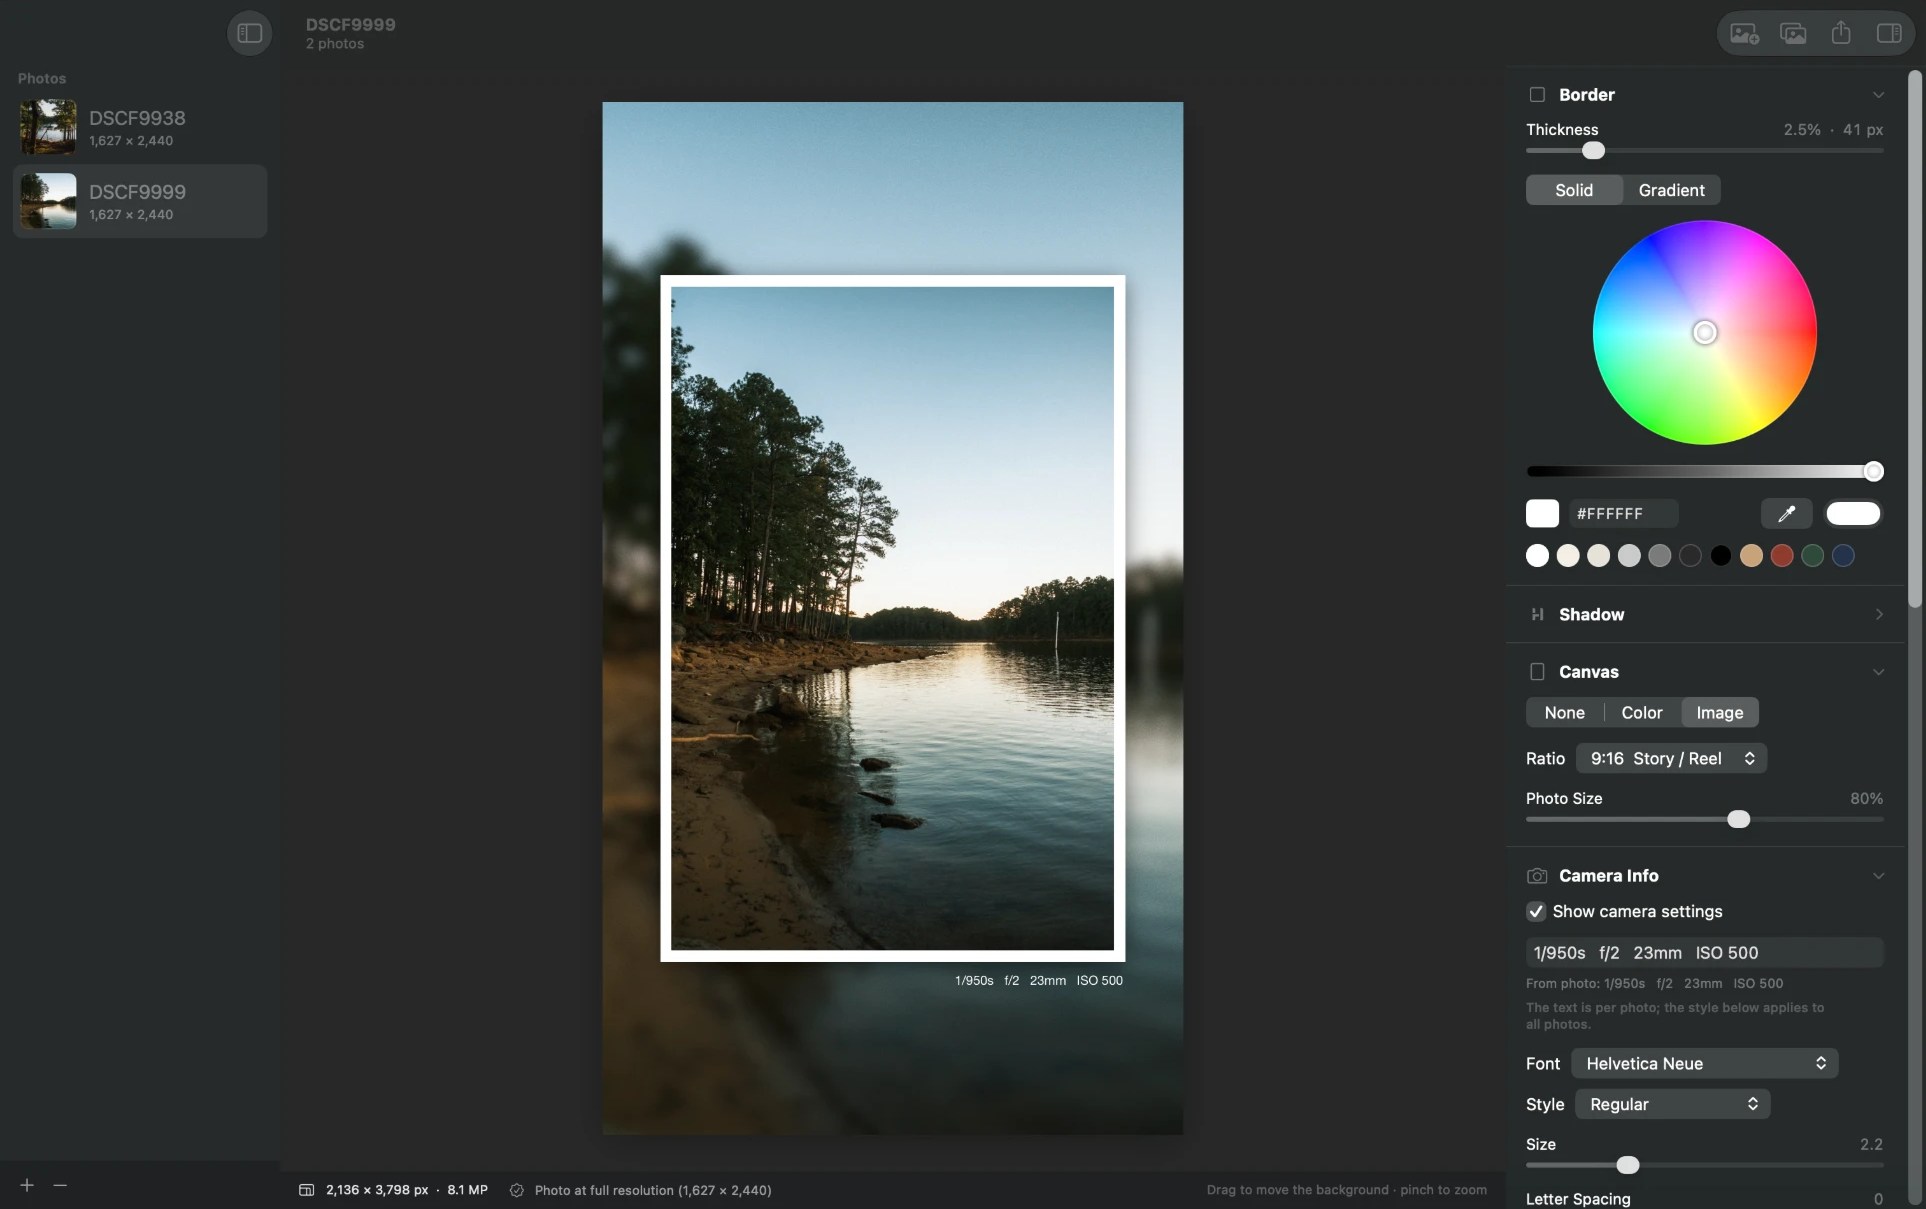
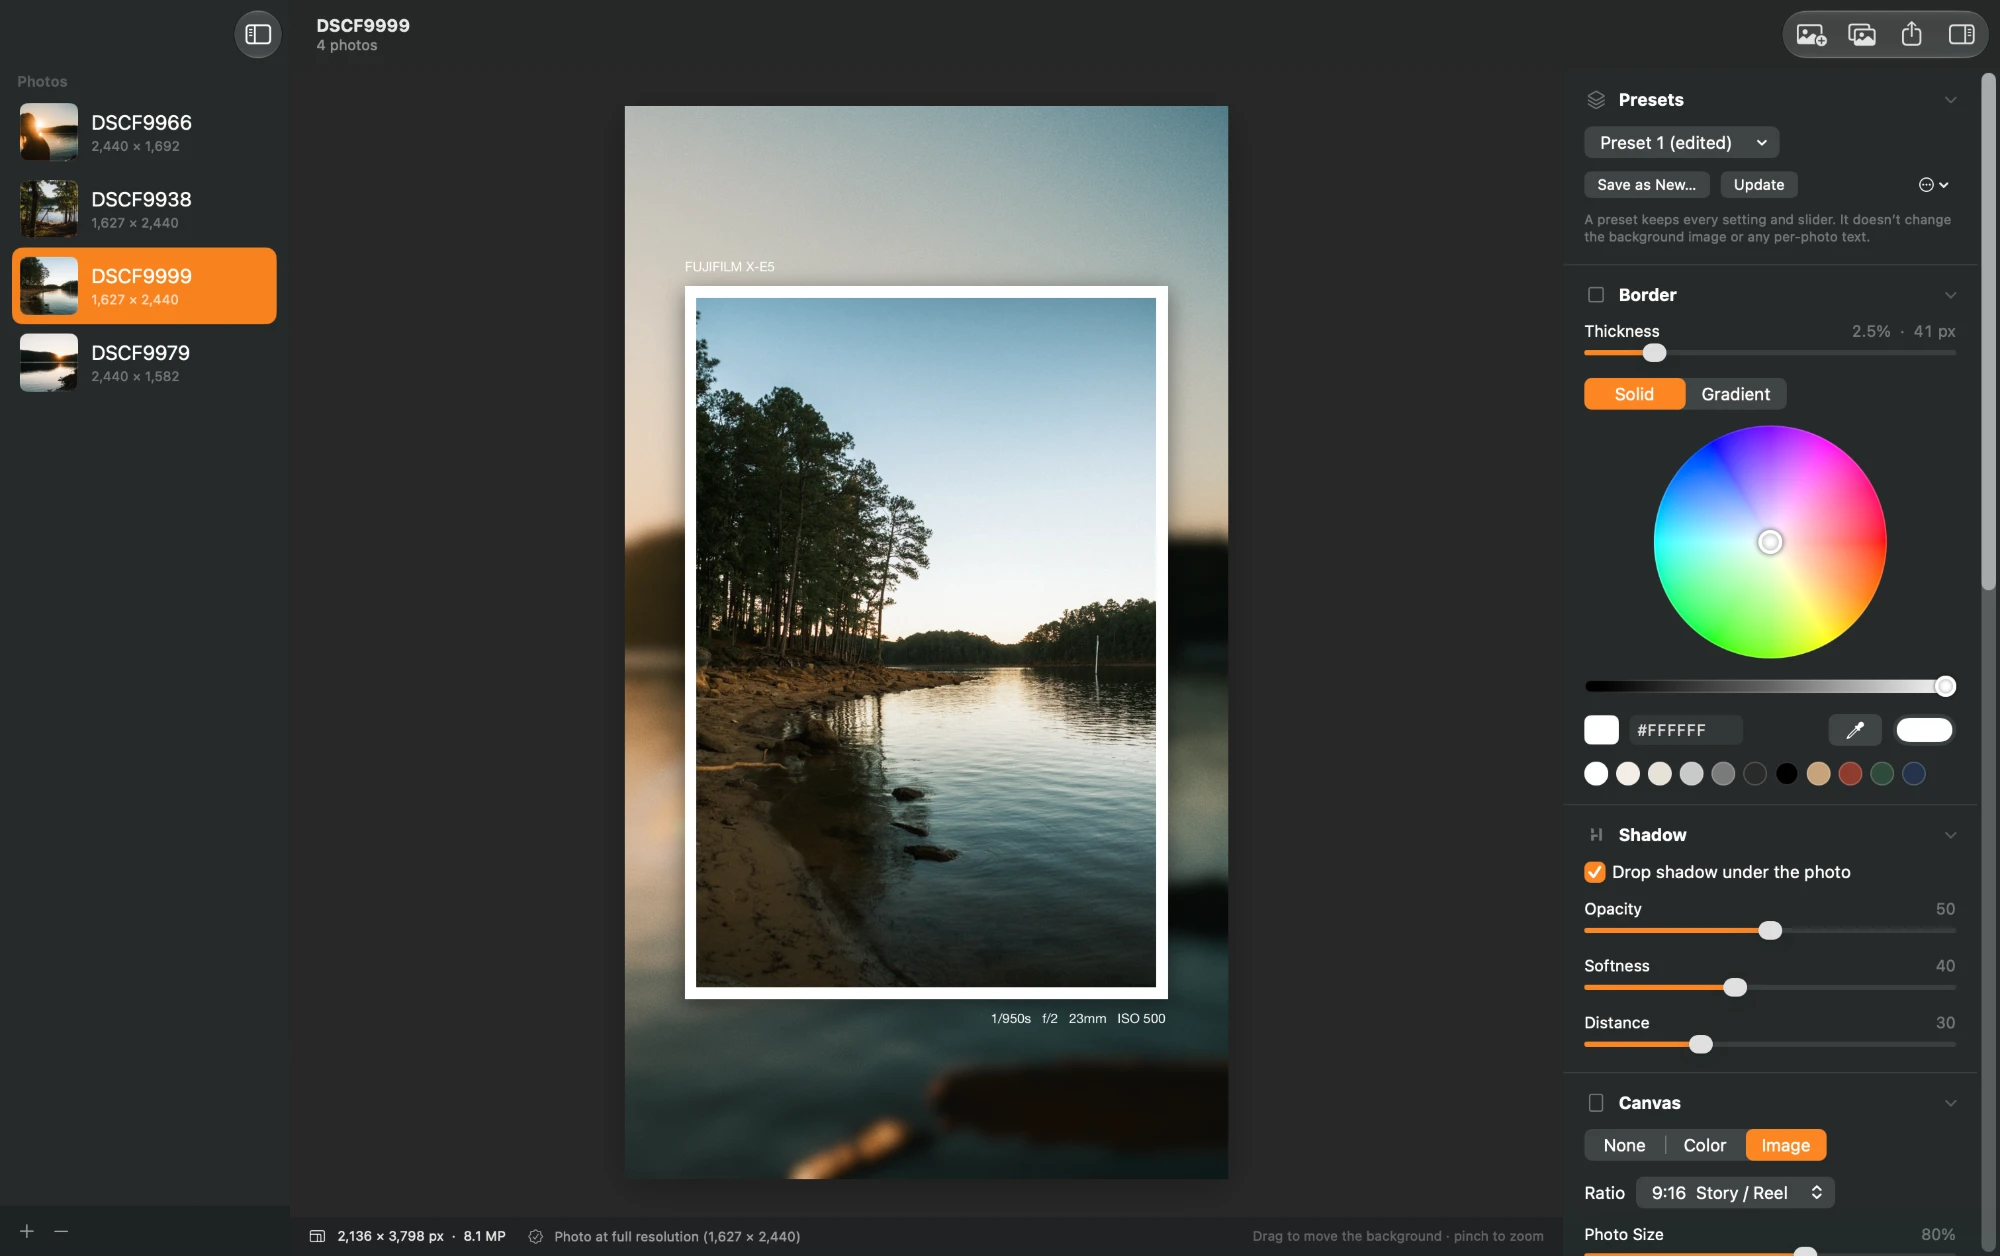
Refresh README and screenshot
New screenshot showing presets and both text lines. README reorganized and
updated for presets, the second text line, film simulation (Lightroom look
first, Fujifilm only), keyboard shortcuts, project layout and requirements.

diff --git a/README.md b/README.md
@@ -1,52 +1,95 @@
 # Frame Studio
 
-A small macOS app for framing photos: border, blurred background image, drop shadow and camera settings text,
-exported without touching the photo's resolution.
+A small macOS app for framing photos for sharing. It adds a border, a blurred background image, a drop shadow and
+camera-info text, and saves the whole look as a preset. Exports keep your photo at its full original resolution.
 
-![Frame Studio: a lake photo framed in white on a blurred background, with its camera settings below it; the inspector shows border, canvas and camera-info controls](docs/screenshot.png)
+![Frame Studio: a lake photo framed in white on a blurred background, with the camera model above it and the shutter speed, aperture, focal length and ISO below; the inspector shows presets, border, shadow and canvas controls](docs/screenshot.png)
 
 ## Run
 
-Open `Frame Studio.app` (drag it to Applications if you like). You can also drop images onto its Dock icon
-or use Finder → Open With → Frame Studio.
-
-## Rebuild
+Requires macOS 14 or later.
 
 ```bash
 ./build.sh
+open "Frame Studio.app"
 ```
 
-Needs the Xcode Command Line Tools (Swift 5.9+). Produces `Frame Studio.app` next to the script.
+`build.sh` needs the Xcode Command Line Tools (Swift 5.9+) and creates `Frame Studio.app` next to the script; drag it to
+Applications if you like. You can also drop images onto its Dock icon or use Finder → Open With → Frame Studio.
+On first use macOS may ask whether Frame Studio can access the folder your photos are in; click Allow.
 
 ## What it does
 
-- **Photos:** add one or several (⌘O or drag in). All settings apply to every photo; Export All writes them in one go.
-- **Border:** thickness (% of the photo's short side), solid color from a wheel / hex / eyedropper / system picker, or a two-color gradient.
-- **Shadow:** opacity, softness, distance.
-- **Canvas:** None (just photo + border), Color, or Image, plus a 9:16 / 4:5 / 1:1 / … ratio and a Photo Size slider.
-- **Sliders:** double-click a slider (or its label) to reset it to 0, or to its default when 0 is out of range.
-- **Background image:** blur, grain, grain size, brightness, zoom, move horizontally / vertically. You can also drag on the preview to move it and pinch to zoom.
-- **Text:** two lines that sit above or below the photo, each with its own alignment and X/Y offsets, sharing any installed font and style, size, letter spacing and color.
-  - *Camera settings:* shutter speed, aperture, focal length and ISO from the photo's EXIF.
-  - *Second line:* camera model, film simulation, copyright, location, or your own text. Camera model, copyright and location come from the photo's metadata. Film simulation is read from Lightroom's Fujifilm camera profile (e.g. "Camera CLASSIC CHROME"), or picked from a dropdown for photos that don't record one.
-  - Text from metadata can be edited per photo. The second line defaults to the spot opposite the camera settings; put both in the same spot to stack them as two lines.
-- **Export:** JPEG / HEIC (quality slider), PNG / TIFF (lossless). Existing files are never overwritten.
-- **Presets:** save every setting and slider (border, shadow, canvas, background adjustments, text, export options) under a name, switch between presets from the inspector or with ⌘1–⌘9, update, rename or delete them, and export/import them as files. A preset never changes the loaded background image or any per-photo text.
+- **Photos:** add one or several (⌘O or drag them in). Settings apply to every photo, and Export All writes them in one go.
+- **Presets:** save every setting and slider under a name: border, shadow, canvas, background adjustments, text and export
+  options. Switch from the inspector or with ⌘1–⌘9. Presets can be updated (the name shows "(edited)" after a change),
+  renamed, deleted, exported to a file and imported. A preset never changes the loaded background image or per-photo text.
+- **Border:** thickness as a percentage of the photo's short side. The color is solid (wheel, hex, eyedropper or the system
+  picker) or a two-color gradient at any angle.
+- **Shadow:** a soft drop shadow under the framed photo, with opacity, softness and distance.
+- **Canvas:** None (just the photo and border), Color or Image, at 9:16, 4:5, 1:1, 3:4, 2:3, 3:2, 4:3 or 16:9, with a
+  Photo Size slider.
+- **Background image:** blur, grain, grain size, brightness, zoom and horizontal/vertical position. You can also drag the
+  preview to move it and pinch to zoom.
+- **Text:** two lines above or below the photo. Each line has its own position, alignment and X/Y offsets, and both share
+  a font (any installed font and style), size, letter spacing and color.
+  - *Camera settings:* shutter speed, aperture, focal length and ISO from EXIF, e.g. `1/950s   f/2   23mm   ISO 500`.
+  - *Second line:* camera model, film simulation, copyright, location or your own text.
+    - Camera model, copyright and location come from the photo's metadata. The brand appears once, e.g. `FUJIFILM X-E5`
+      or `NIKON Z 6_2`. Location uses the IPTC place name, falling back to GPS coordinates.
+    - Film simulation comes from Lightroom's Fujifilm camera-matching profile. The applied look wins over the base
+      profile, so a Classic Neg look on a Provia base reads `Classic Neg.` For Fujifilm photos that don't record one,
+      pick it per photo from a menu or set a default. Other makes never get one.
+  - Metadata text is editable per photo, and each source keeps its own edits.
+  - The second line defaults to the spot opposite the camera settings: above or below, left or right, centered stays
+    centered. Put both in the same spot to stack them. Lines on the same side never overlap: a line that would collide
+    drops to its own row and moves with the camera settings.
+- **Export:** JPEG or HEIC (with a quality slider), or lossless PNG or TIFF. Camera metadata is kept if you choose.
+  Existing files are never overwritten.
+- **Sliders:** double-click a slider, or its label, to reset it to 0, or to its default when 0 is out of range.
+
+### Keyboard shortcuts
+
+| Shortcut | Action |
+| --- | --- |
+| ⌘O | Add photos |
+| ⇧⌘O | Choose background image |
+| ⌘E | Export the selected photo |
+| ⇧⌘E | Export all photos |
+| ⌘1 – ⌘9 | Apply preset 1–9 |
+| ⌫ | Remove the selected photo from the list (the file isn't touched) |
 
 ## Quality
 
 The canvas is sized around the photo, so the photo is placed at 100% of its own pixels with no resampling.
 Its color profile and bit depth (including 16-bit) are kept, and EXIF is copied when "Keep camera metadata" is on.
-With PNG or TIFF, the photo's pixels in the output are bit-identical to the original. JPEG/HEIC re-encode the
-whole image, so they are visually lossless at 100% but not bit-exact.
+With PNG or TIFF, the photo's pixels in the output are bit-identical to the original. JPEG and HEIC re-encode the
+whole image, so they're visually lossless at 100% quality but not bit-exact.
+
+Everything runs locally, and the app makes no network requests.
+
+## Project layout
+
+| File | What's in it |
+| --- | --- |
+| `Sources/FrameStudio/Renderer.swift` | Layout, background effects, shadow, text drawing and export |
+| `Sources/FrameStudio/Model.swift` | Settings (`Style`), text lines, film simulations and presets |
+| `Sources/FrameStudio/ImageIOHelper.swift` | Loading images and reading metadata (EXIF, IPTC, GPS, Lightroom XMP) |
+| `Sources/FrameStudio/AppState.swift` | Photos, background, per-photo text, presets, import/export |
+| `Sources/FrameStudio/*View.swift`, `ColorWheel.swift`, `Components.swift` | The SwiftUI interface |
+| `Sources/FrameStudio/CLI.swift` | The command-line mode used for testing |
 
 ## Developer checks
 
-The binary has a hidden CLI used for testing:
+The binary has a hidden command-line mode used for testing:
 
 ```bash
 FrameStudio --cli render --photo in.jpg --bg bg.jpg --out out.png --format png --style '{"photoSize":0.8}'
+FrameStudio --cli render --photo in.jpg --out preview.png --format png --preview 900 --style '{"infoEnabled":true}'
 FrameStudio --cli verify --photo in.jpg --out out.png
 ```
 
-`verify` compares the photo region of an export against the source pixel by pixel.
+- `--style` takes any subset of the settings as JSON; fields you leave out keep their defaults.
+- A full render prints the text lines it drew.
+- `--caption` and `--info` override the two text lines.
+- `verify` compares the photo region of an export with the source, pixel by pixel.
